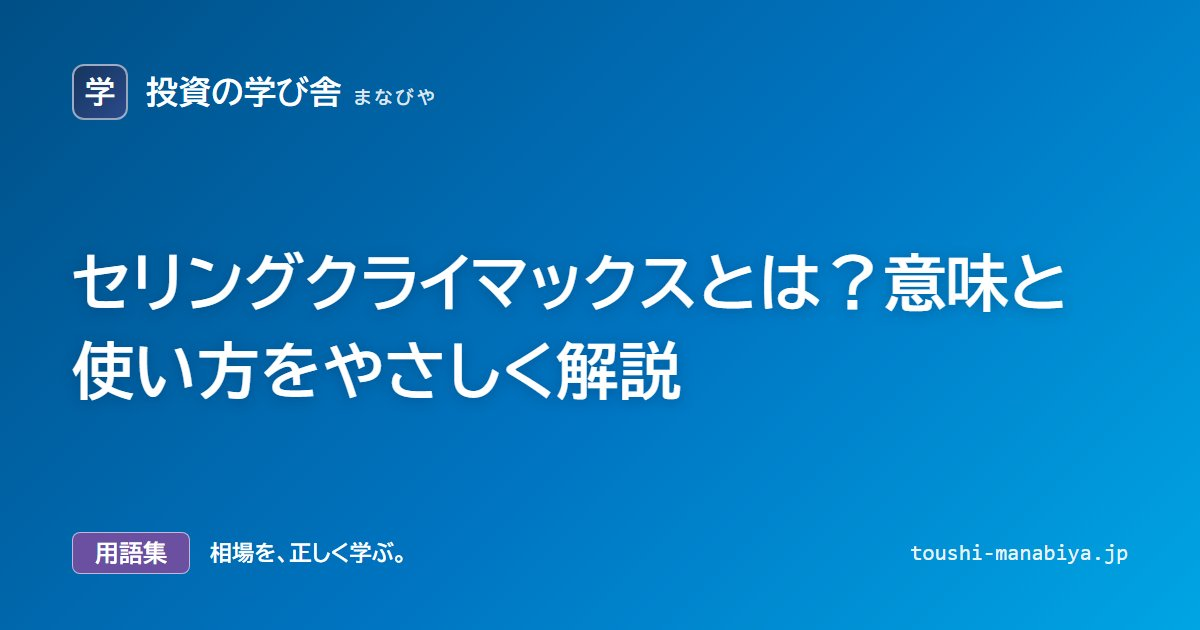
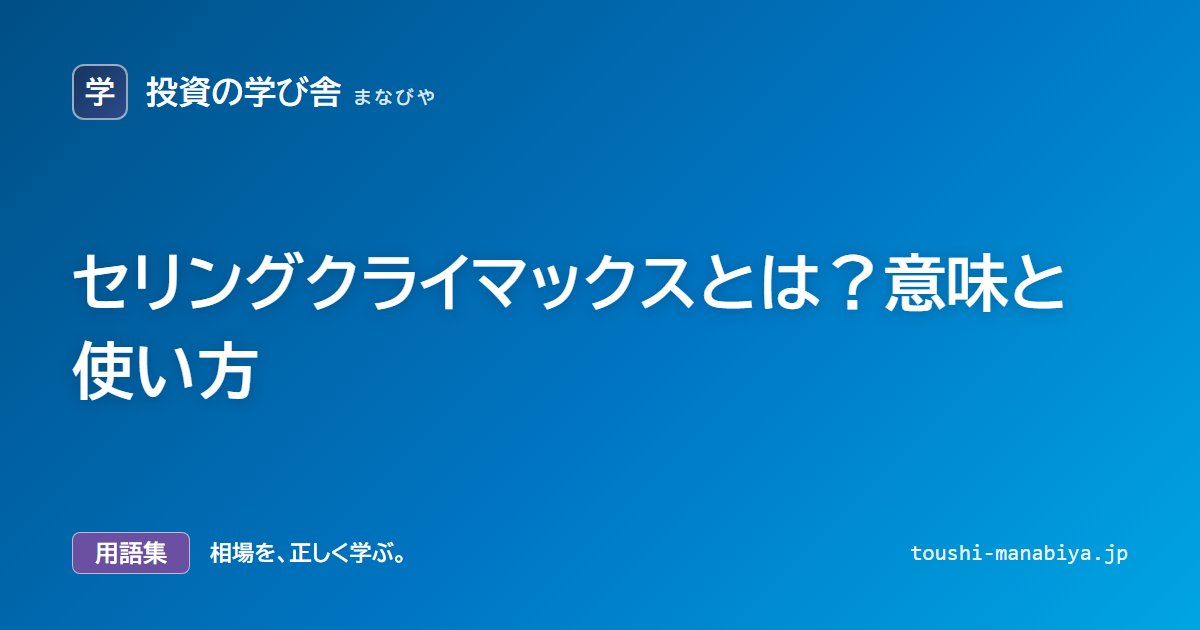
SEO検査の閾値を実データで校正・トップtitle短縮・用語集4本のtitle短縮
当初の閾値（description全角80字）は勘で置いたもので、実測すると41件が
「超過」と出るが実際にはPCのSERPでは切れていなかった。切られる位置に合わせ直す。

- description閾値: 全角80字 → 全角120字（PCの表示上限）。
  SPは全角70字前後で切れるため「要点を前半に置く」方針をコメントで明示
- title検査: 全長ではなく「区切り記号より前の主題部」で測る。
  副題が省略されても主題が読めれば実害はなく、むしろ自前で削るとtitle内の
  キーワードを失うため。この校正で84件 → 4件に
- トップページ title を82→短縮（前コミットで自分が長くしていた）
- 用語集4本（arbitrage / basis-point / selling-climax / stop-hunting）の
  定型末尾「意味と使い方をやさしく解説」→「意味と使い方」。
  主題そのものが切れていた4本のみで、残る29本は据え置き。OGP 4枚を再生成

検証: build緑 / validate緑（212ファイル・警告0）/ check_seo 指摘0件 /
Playwright実ブラウザ16通り ALL GREEN。

Changed region(s): [[0.2158, 0.5429, 0.5858, 0.6333]]

diff --git a/src/content/glossary/selling-climax.md b/src/content/glossary/selling-climax.md
@@ -1,5 +1,5 @@
 ---
-title: "セリングクライマックスとは？意味と使い方をやさしく解説"
+title: "セリングクライマックスとは？意味と使い方"
 description: "セリングクライマックス（セリクラ）とは、下落相場の最終局面で投げ売りが集中し、出来高急増を伴って突っ込む現象。大底の経験則と「確定できるのは常に事後」という限界をやさしく解説します。"
 term: "セリングクライマックス"
 reading: "せりんぐくらいまっくす"

diff --git a/src/content/glossary/arbitrage.md b/src/content/glossary/arbitrage.md
@@ -1,5 +1,5 @@
 ---
-title: "アービトラージ（裁定取引）とは？意味と使い方をやさしく解説"
+title: "アービトラージ（裁定取引）とは？意味と使い方"
 description: "アービトラージ（裁定取引）とは、本来同じ価値のものの価格差を利用し、安い方を買い高い方を売って差額を確定させる取引。さや取りとの関係や、執行コストが利益を左右する現実をやさしく解説します。"
 term: "アービトラージ"
 reading: "あーびとらーじ"

diff --git a/src/content/glossary/basis-point.md b/src/content/glossary/basis-point.md
@@ -1,5 +1,5 @@
 ---
-title: "ベーシスポイント（bp）とは？意味と使い方をやさしく解説"
+title: "ベーシスポイント（bp）とは？意味と使い方"
 description: "ベーシスポイント（bp）とは、金利や利回りの変化を表す単位で、1bp＝0.01%。「25bp利上げ」の読み方など、金利のニュースを正確に読むための換算と使いどころをやさしく解説します。"
 term: "ベーシスポイント（bp）"
 reading: "べーしすぽいんと"

diff --git a/src/content/glossary/stop-hunting.md b/src/content/glossary/stop-hunting.md
@@ -1,5 +1,5 @@
 ---
-title: "ストップ狩り（損刈り）とは？意味と使い方をやさしく解説"
+title: "ストップ狩り（損刈り）とは？意味と使い方"
 description: "ストップ狩り（損刈り）とは、節目の少し外側に集中した損切り注文を巻き込んでから反転する値動きの俗称。注文分布で説明できる仕組みと、置き場所・サイズでの対策をやさしく解説します。"
 term: "ストップ狩り"
 reading: "すとっぷがり"
